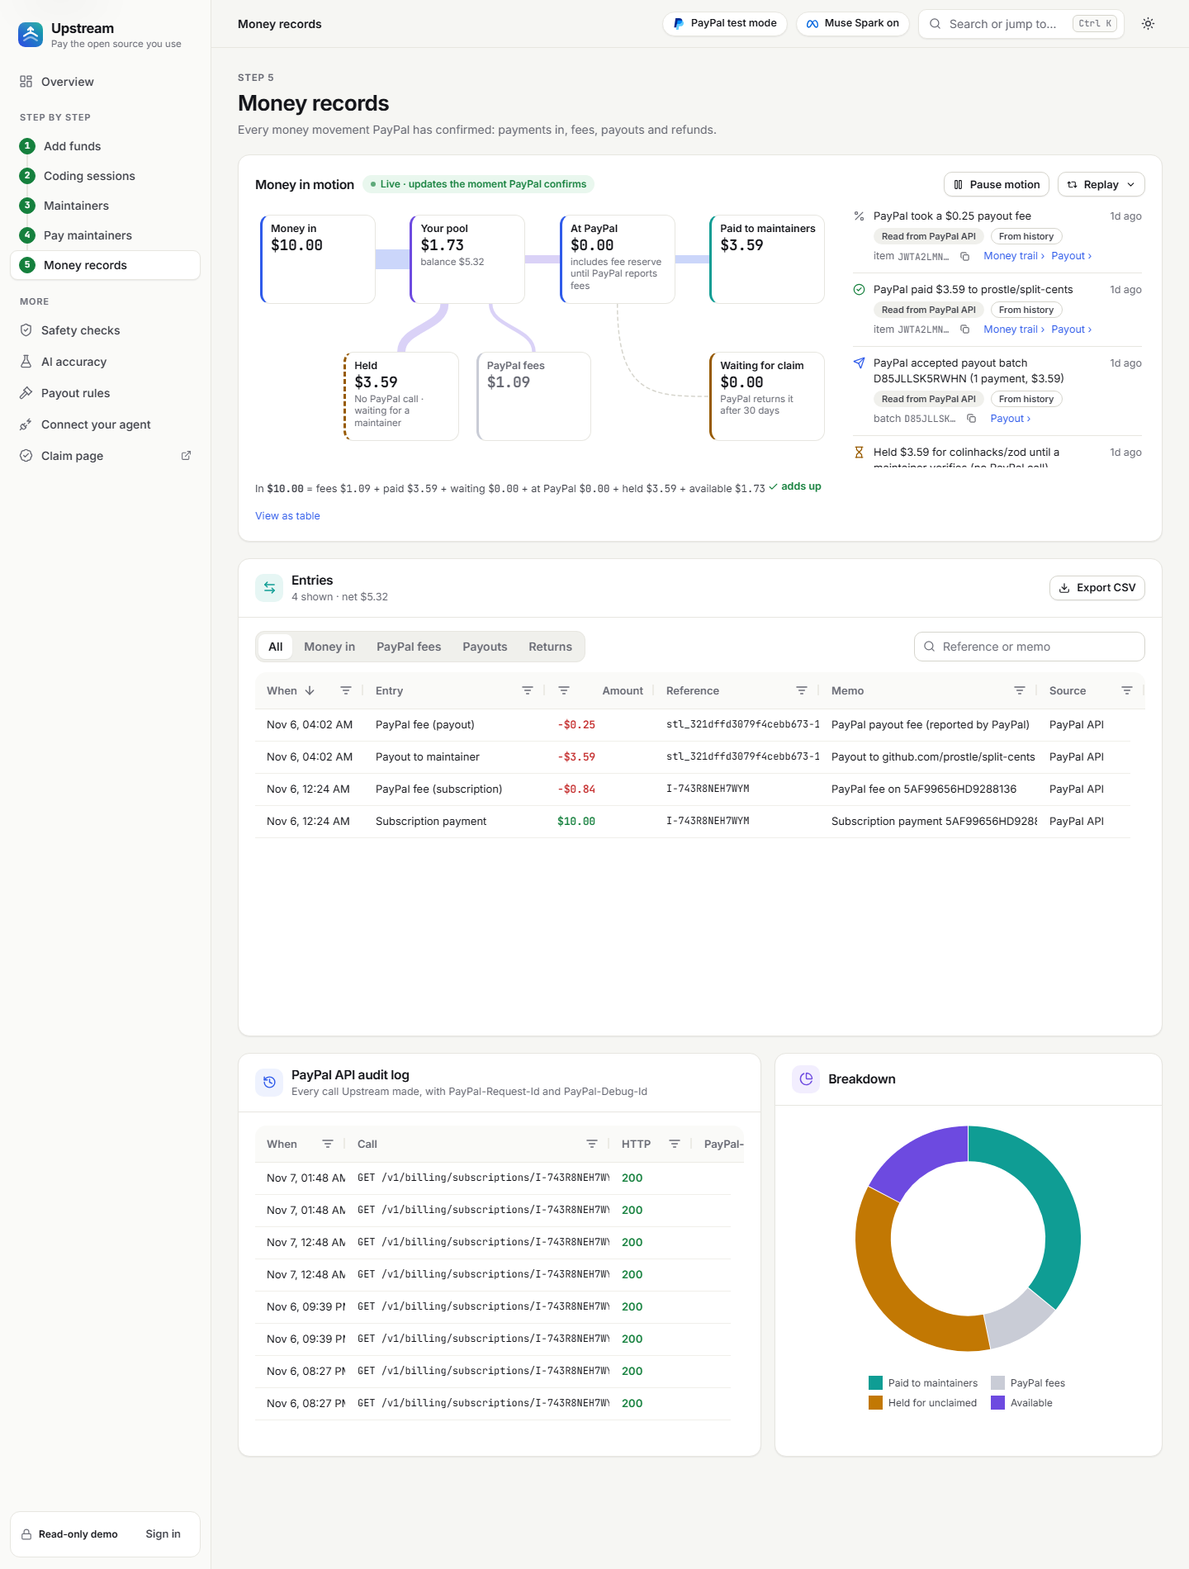
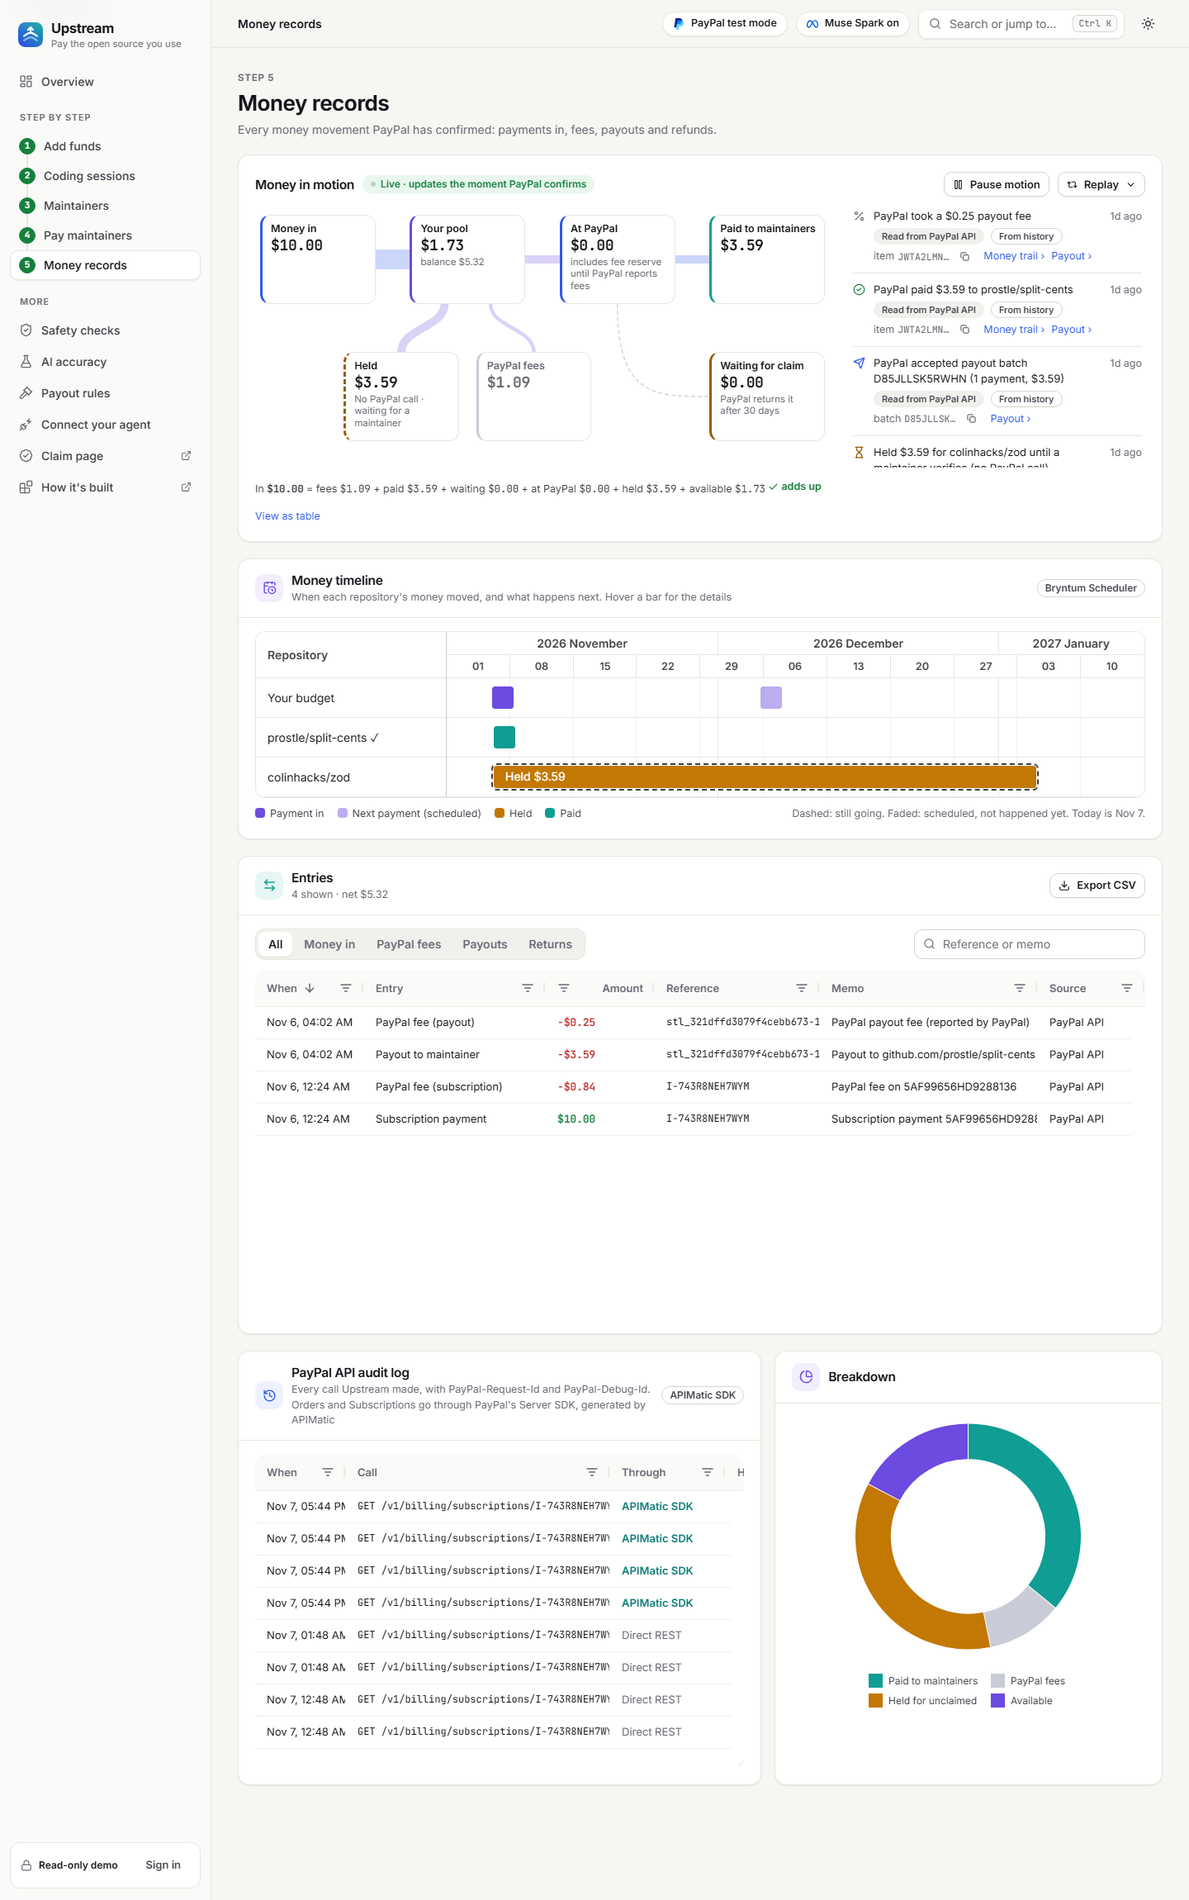
Document the Bryntum timeline, PayPal's Server SDK and the How it's built page
- "Partner tools: AG Grid, Bryntum, APIMatic and Render" replaces the AG Grid and Render
  section. It adds what Bryntum and the APIMatic-generated SDK do here, where to see them,
  how they're wired, diagrams and screenshots, and what the SDK doesn't cover.
- The PayPal tables, architecture, repo map and tools say which calls go through the SDK.
- New screenshots: the live How it's built page, the money timeline, and the API log's
  Through column. The Money records screenshot is refreshed.
- What's proven: the SDK sync against the real sandbox on the live app. 136 tests.

diff --git a/README.md b/README.md
@@ -38,7 +38,7 @@ The name is the idea. Money should flow back upstream, to where the work came fr
 - [How AI is used, and kept on a leash](#how-ai-is-used-and-kept-on-a-leash)
 - [The evidence layer](#the-evidence-layer)
 - [Architecture](#architecture)
-- [AG Grid and Render in Upstream](#ag-grid-and-render-in-upstream)
+- [Partner tools: AG Grid, Bryntum, APIMatic and Render](#partner-tools-ag-grid-bryntum-apimatic-and-render)
 - [Trust and safety](#trust-and-safety)
 - [What's proven so far](#whats-proven-so-far), including the benchmark
 - [Try it in two minutes](#try-it-in-two-minutes)
@@ -79,7 +79,7 @@ These are real screens, showing the sandbox run described [further down](#one-se
     </td>
     <td valign="top">
       <img src="docs/screenshots/money-records.png" alt="Money records with the ledger and PayPal API log"><br>
-      <b>Money records.</b> Every PayPal-confirmed movement, the ledger, and a log of every call made to PayPal's API.
+      <b>Money records.</b> Every PayPal-confirmed movement, the money timeline (Bryntum), the ledger, and every call made to PayPal's API, marked by whether it went through PayPal's Server SDK.
     </td>
   </tr>
 </table>
@@ -186,8 +186,8 @@ PayPal is the only place money moves. Upstream never holds card details or bank 
 
 | Job | PayPal product | What Upstream does with it |
 |---|---|---|
-| Fund a monthly budget | **Subscriptions** (catalog product, plan, subscription, transactions) | You approve the "agent tithe" on PayPal's own page. Upstream reads the subscription's transactions to book each payment and its fee. |
-| Add money once | **Orders v2** (create, capture, read) | A one-time top-up, captured on the server when you return from PayPal. Gross and fee come from the capture's `seller_receivable_breakdown`. |
+| Fund a monthly budget | **Subscriptions** (catalog product, plan, subscription, transactions), through **PayPal's Server SDK** | You approve the "agent tithe" on PayPal's own page. Upstream reads the subscription's transactions to book each payment and its fee. |
+| Add money once | **Orders v2** (create, capture, read), through **PayPal's Server SDK** | A one-time top-up, captured on the server when you return from PayPal. Gross and fee come from the capture's `seller_receivable_breakdown`. |
 | Pay maintainers | **Payouts** (create batch, show batch, show item, cancel unclaimed item) | One batch per approved plan, to verified maintainers only. |
 | Verify a payout email | **Log in with PayPal** (Identity) | Optional: maintainers connect their PayPal account, so the email is one PayPal has verified. Upstream doesn't keep their PayPal token. |
 | Keep records straight | **Webhooks** (create, update, `verify-webhook-signature`) | Every event is signature-checked, stored and processed once. |
@@ -196,6 +196,7 @@ PayPal is the only place money moves. Upstream never holds card details or bank 
 
 **The details that matter**
 
+- **Orders and Subscriptions through PayPal's own SDK.** These go through `@paypal/paypal-server-sdk`, PayPal's official TypeScript SDK, which APIMatic generates. Payouts, Webhooks and Log in with PayPal aren't in that SDK, so they're direct calls. [More below](#apimatic-paypals-server-sdk).
 - **No double payments.** Every batch uses `sender_batch_id = upstream-<settlement id>`. PayPal completes a payment only once per `sender_batch_id` and rejects reuse within 30 days, so a retry after a server error is safe. The request body is frozen when you approve, and the same id is sent as `PayPal-Request-Id`. **Replay batch** re-sends the identical body on purpose and shows PayPal's real rejection.
 - **Unclaimed money comes back.** PayPal returns unclaimed payouts after 30 days unless they're cancelled. Upstream cancels `UNCLAIMED` items after `POLICY_CANCEL_UNCLAIMED_AFTER_DAYS` (or when you ask), books the return, holds the money for that repo again, and flags the claim so the maintainer can fix their email.
 - **Fees are PayPal's real numbers.** Funding fees come from the subscription transaction's `fee_amount`, and payout fees from each item's `payout_item_fee`. A fee reserve keeps the budget safe until PayPal reports the actual fee.
@@ -210,10 +211,10 @@ PayPal is the only place money moves. Upstream never holds card details or bank 
 | API | Calls | Where |
 |---|---|---|
 | OAuth2 | `POST /v1/oauth2/token` (cached until expiry) | `server/src/paypal/client.ts` |
-| Catalog Products | `POST /v1/catalogs/products` | `server/src/paypal/subscriptions.ts` |
-| Subscriptions | `POST /v1/billing/plans`, `POST /v1/billing/subscriptions` (approve link), `GET /v1/billing/subscriptions/{id}`, `GET …/{id}/transactions` | `subscriptions.ts`, `funding.ts` |
+| Catalog Products | `POST /v1/catalogs/products` (direct: the SDK has no Catalog Products API) | `server/src/paypal/subscriptions.ts` |
+| Subscriptions (through PayPal's Server SDK) | `POST /v1/billing/plans`, `POST /v1/billing/subscriptions` (approve link), `GET /v1/billing/subscriptions/{id}`, `GET …/{id}/transactions` | `subscriptions.ts`, `sdk.ts`, `funding.ts` |
 | Payouts | `POST /v1/payments/payouts`, `GET /v1/payments/payouts/{id}` (all pages), `GET /v1/payments/payouts-item/{id}`, `POST /v1/payments/payouts-item/{id}/cancel` | `payouts.ts`, `settlement.ts` |
-| Orders v2 | `POST /v2/checkout/orders` (intent CAPTURE, `payment_source.paypal.experience_context`), `POST /v2/checkout/orders/{id}/capture` and `GET /v2/checkout/orders/{id}` with `Prefer: return=representation` | `paypal/orders.ts`, `topups.ts` |
+| Orders v2 (through PayPal's Server SDK) | `POST /v2/checkout/orders` (intent CAPTURE, `payment_source.paypal.experience_context`), `POST /v2/checkout/orders/{id}/capture` and `GET /v2/checkout/orders/{id}` with `Prefer: return=representation` | `paypal/orders.ts`, `sdk.ts`, `topups.ts` |
 | Identity (Log in with PayPal) | `/connect` authorize page, `POST /v1/oauth2/token` (`grant_type=authorization_code`), `GET /v1/identity/openidconnect/userinfo` (falls back to `/v1/identity/oauth2/userinfo`, the path the integration guide shows) | `paypal/identity.ts`, `claims.ts` |
 | Webhooks | `GET/POST/PATCH /v1/notifications/webhooks`, `POST /v1/notifications/verify-webhook-signature` (raw body spliced in byte for byte) | `webhooks.ts`, `events.ts` |
 | Invoicing (through the Agent Toolkit) | `create_invoice`, `send_invoice`, `record_payment_for_invoice`, `get_invoice`, which call `/v2/invoicing/invoices` | `paypal/statements.ts` |
@@ -291,12 +292,12 @@ flowchart TB
         DB[("SQLite<br/>one file on a persistent disk")]
         JOBS["Hourly reconciler<br/>and 24-hour cleanup"]
     end
-    WEB["Dashboard<br/>React, Vite, AG Grid"] <--> API
+    WEB["Dashboard<br/>React, Vite, AG Grid,<br/>Bryntum Scheduler"] <--> API
     HK -->|evidence, with a per-person token| API
     MCP -->|guarded payout tools| API
     API <--> DB
     JOBS <--> DB
-    API <-->|Subscriptions, Orders, Payouts,<br/>Identity, Invoicing| PP["PayPal sandbox"]
+    API <-->|"Orders and Subscriptions through<br/>PayPal's Server SDK, by APIMatic.<br/>Payouts, Identity, Invoicing"| PP["PayPal sandbox"]
     PP -->|signed webhooks| API
     API -->|structured output| MUSE["Meta Muse Spark"]
     API --> REG["deps.dev, ecosyste.ms,<br/>npm registry, GitHub"]
@@ -307,7 +308,8 @@ flowchart TB
 - **Node.js 24** with built-in SQLite (`node:sqlite`) and TypeScript type stripping, so there's no database server, no native build and no compile step for the server.
 - **Express 5** for the API, including Server-Sent Events for the live money stream.
 - **SQLite**, one file. Every person's records live in the same database and are kept apart by checks on every route.
-- **React 19, Vite, React Router, AG Grid and AG Charts** for the dashboard.
+- **React 19, Vite, React Router, AG Grid, AG Charts and Bryntum Scheduler** for the dashboard.
+- **PayPal's Server SDK** (`@paypal/paypal-server-sdk`, generated by APIMatic) for Orders and Subscriptions, and direct REST calls for the rest of PayPal's APIs.
 - **Hosted on Render**: one web service with a 1 GB persistent disk, defined in `render.yaml`.
 
 **Where things live in this repo**
@@ -317,22 +319,28 @@ flowchart TB
 | `hook/` | The Claude Code hook, its `hooks.json` and the installer |
 | `server/src/evidence/` | Turning tool calls into evidence, building candidates, importing session files |
 | `server/src/attribution/` | The Muse Spark call, the validator, the baseline, the dependency-list split and the accuracy report |
-| `server/src/paypal/` | Every PayPal call: OAuth, subscriptions, orders, payouts, identity, webhooks, statements |
-| `server/src/settlement.ts`, `ledger.ts`, `money/` | Planning, approving and sending payouts, the ledger, and the live money events |
+| `server/src/paypal/` | Every PayPal call: OAuth, subscriptions, orders, payouts, identity, webhooks, statements. `sdk.ts` connects PayPal's Server SDK to Upstream's transport |
+| `server/src/settlement.ts`, `ledger.ts`, `money/` | Planning, approving and sending payouts, the ledger, the live money events, and the money timeline's data |
 | `server/src/claims.ts`, `public.ts`, `check.ts` | Maintainer claims, public repo pages and badges, and the `/check` page |
 | `server/src/audit.ts`, `auth.ts`, `users.ts` | The live safety checks, Sign in with GitHub, and private spaces |
 | `server/src/resolve/` | Package to repository, through deps.dev, ecosyste.ms and the npm registry |
-| `server/test/` | 128 tests, including one person attacking another over HTTP |
-| `web/src/` | The dashboard, the home page and the in-browser session converter |
+| `server/test/` | 136 tests, including one person attacking another over HTTP |
+| `web/src/` | The dashboard, the home page, the "How it's built" page, the money timeline and the in-browser session converter |
 | `mcp/src/` | The MCP server that gives agents guarded payout tools |
 | `.claude-plugin/`, `skills/` | The Claude Code plugin: hooks, MCP server and four skills (`/credits`, `/fund`, `/receipt`, `/statement`). The `SKILL.md` files are part of the plugin, which is why they're the only other Markdown files here. |
 | `scripts/` | The dev runner, the icon renderer, the benchmark and the `/check` sample builder |
 
 ---
 
-## AG Grid and Render in Upstream
+## Partner tools: AG Grid, Bryntum, APIMatic and Render
 
-Two of the hackathon's partner tools are part of how Upstream is built: **AG Grid** for its tables and charts, and **Render** for hosting. This is what each one does here.
+Four of the hackathon's partner tools are part of how Upstream is built: **AG Grid** for its tables and charts, **Bryntum** for the money timeline, **APIMatic** through PayPal's Server SDK, and **Render** for hosting. This is what each one does here.
+
+The app shows the same thing on its own [How it's built](https://upstream-vvua.onrender.com/how-its-built) page, which anyone can open. It lists each tool, what it does and where to see it, with live numbers from the server: how many PayPal calls went through the SDK, the SDK's version, and the commit Render is running.
+
+<img src="docs/screenshots/how-its-built.png" alt="The How it's built page on the live app">
+
+The dashboard also labels each one where it's used: *Bryntum Scheduler* on the money timeline, and *APIMatic SDK* on the funding cards and the PayPal API log.
 
 ### AG Grid: the tables and charts
 
@@ -380,6 +388,53 @@ flowchart LR
 </table>
 
 The payout and money-records screens [above](#a-look-at-the-app) show the other grids, and the reviewed session shows the comparison chart.
+
+### Bryntum: the money timeline
+
+Upstream uses **Bryntum Scheduler, Community edition** (`@bryntum/scheduler-community` and `@bryntum/scheduler-react-community`, version 8.0.0). It's MIT licensed and installs from public npm with no key, so anyone who clones this repo can run it. It draws the **money timeline** on the Money records page.
+
+- **What it shows.** A row for your budget and one for each repository your agent relied on. Every bar is a stored record: a payment PayPal confirmed, a payout, or a share held for a maintainer who hasn't claimed it yet. It also shows what's scheduled next: your next subscription payment (PayPal's `next_billing_time`), the day a held share goes back to your pool (`POLICY_RESERVE_DAYS`), and the day an unclaimed payout will be cancelled (`POLICY_CANCEL_UNCLAIMED_AFTER_DAYS`). Hover a bar for the exact dates and PayPal's ids.
+- **Where the data comes from.** `GET /api/money/timeline` ([`server/src/money/timeline.ts`](server/src/money/timeline.ts)) builds the rows and bars from the signed-in person's allocations, payout items, ledger and subscription, and nobody else's. Nothing on it is estimated except the dates those two rules set.
+- **How it's wired.** [`web/src/money/Timeline.tsx`](web/src/money/Timeline.tsx) renders `BryntumScheduler` read-only, with dragging, editing and menus turned off. The colours match the money diagram: a dashed outline means still going, and a faded bar means scheduled. It loads Bryntum's light or dark theme to follow the app's theme switch, and the module is split out, so only the Money records page downloads Bryntum.
+
+<img src="docs/screenshots/money-timeline.png" alt="The money timeline, drawn with Bryntum Scheduler">
+
+*Real sandbox data: the $10.00 subscription payment and the next one PayPal has scheduled, the $3.59 paid to `split-cents`, and `zod`'s $3.59 held until its maintainer claims it.*
+
+```mermaid
+flowchart LR
+    DB[("SQLite: allocations, payout items,<br/>ledger, subscriptions")] --> API["GET /api/money/timeline<br/>only this person's records"]
+    API --> T["Timeline.tsx"]
+    T --> B["BryntumScheduler<br/>read-only, light or dark"]
+```
+
+### APIMatic: PayPal's Server SDK
+
+PayPal's official TypeScript SDK, [`@paypal/paypal-server-sdk`](https://github.com/paypal/PayPal-TypeScript-Server-SDK), is generated by APIMatic from PayPal's API definitions. Its source files say so ("automatically generated by APIMATIC"), and it's built on APIMatic's runtime packages. Upstream uses version 2.5.0 for every PayPal call the SDK covers:
+
+| PayPal API | SDK methods Upstream uses | Upstream code |
+|---|---|---|
+| Orders v2 | `createOrder`, `captureOrder`, `getOrder`, for one-time top-ups | [`server/src/paypal/orders.ts`](server/src/paypal/orders.ts) |
+| Subscriptions | `createBillingPlan`, `createSubscription`, `getSubscription`, `listSubscriptionTransactions`, for the monthly budget | [`server/src/paypal/subscriptions.ts`](server/src/paypal/subscriptions.ts) |
+
+The SDK doesn't cover Payouts, Webhooks, Log in with PayPal or Catalog Products, so those are still direct REST calls. Statements go through PayPal's Agent Toolkit, which is itself built on an earlier version of the same SDK.
+
+- **How it's wired.** [`server/src/paypal/sdk.ts`](server/src/paypal/sdk.ts) creates the SDK client. The SDK builds each request from its typed models, sets `PayPal-Request-Id` and `Prefer`, and turns PayPal's error replies into typed errors, which Upstream maps to the same `PayPalError` a direct call throws. The SDK's HTTP layer is axios, and Upstream gives it an axios adapter, so every SDK request goes over Upstream's own transport. That means the SDK uses Upstream's cached access token, `PAYPAL_API_BASE` still applies, the tests can stand in for PayPal, and every call is logged.
+- **Money is still booked from PayPal's own JSON.** The SDK hands back PayPal's raw reply alongside its typed model. That reply has the same shape webhooks deliver, so one code path books both.
+- **Where you see it.** The PayPal API audit log on Money records has a *Through* column, showing **APIMatic SDK** or **Direct REST** for every call. The two funding cards on Add funds are labelled too.
+- **Checked against the real sandbox.** On the live app, syncing the sandbox subscription through the SDK returned it as active, with the same $10.00 payment and $0.84 fee as before, and booked nothing twice. PayPal's real replies passed the SDK's own schema validation. [`server/test/paypal-sdk.test.ts`](server/test/paypal-sdk.test.ts) checks the exact JSON, headers and token the SDK sends.
+
+<img src="docs/screenshots/api-log.png" alt="The PayPal API audit log, showing which calls went through the APIMatic SDK" width="520">
+
+```mermaid
+flowchart LR
+    C["orders.ts and subscriptions.ts"] -->|typed request models| SDK["PayPal Server SDK<br/>generated by APIMatic"]
+    SDK -->|axios adapter| T["Upstream's transport<br/>shared token, call log"]
+    T --> PP["PayPal API"]
+    PP -->|JSON reply| T
+    T --> SDK
+    SDK -->|"PayPal's own JSON"| C
+```
 
 ### Render: hosting
 
@@ -433,6 +488,7 @@ You shouldn't have to take any of this on faith, so the app checks itself in pub
 | Real PayPal funding | Sandbox subscription `I-743R8NEH7WYM`: $10.00 paid, PayPal's $0.84 fee recorded. |
 | Money only moves on screen when PayPal confirms it | A second real sandbox payout (batch `LK2R3WYGYTZM2`, $1.70) was watched live. Each step moved when PayPal's reply or its API confirmed it, every event appeared once, and the totals added up to the cent throughout. |
 | It runs as a hosted service | The [live app](https://upstream-vvua.onrender.com) runs on Render with the real sandbox history above. PayPal's webhook points at it, and its live stream delivers events without buffering. |
+| PayPal's own SDK works with real data | On the live app, syncing the sandbox subscription through PayPal's Server SDK (generated by APIMatic) returned the same $10.00 payment and $0.84 fee and booked nothing twice. PayPal's real replies passed the SDK's own schema validation. A one-time top-up through the SDK hasn't been approved on PayPal's page yet. |
 | The AI finds what dependency lists miss | Live `muse-spark-1.3` on 12 scripted scenarios, 3 runs each: 12 of 12 correct on every run, against 7 of 12 for counting imports. See [the benchmark](#the-benchmark). |
 | A README can't talk the AI into paying it | A package whose README demanded all the money got nothing, and the AI flagged the attempt in 3 of 3 runs. |
 | Code overrules the AI | 9 of 9 deliberately malicious AI outputs were blocked. |
@@ -521,10 +577,11 @@ Nothing falls back to mock data. A missing credential turns that feature off, an
 **Tests**
 
 ```bash
-npm test                     # 128 tests: parsers, evidence, the validator, money math, the hook and its spool,
+npm test                     # 136 tests: parsers, evidence, the validator, money math, the hook and its spool,
                              # top-ups, claims, an end-to-end settlement, the safety checks, sign-in,
                              # one person attacking another over HTTP, the session converter, /check and its limits,
-                             # fee thresholds, money events and their stream, invites and statements
+                             # fee thresholds, money events and their stream, invites and statements,
+                             # the requests PayPal's Server SDK sends, and the money timeline
 npm run typecheck
 npm run doctor               # live, read-only checks against PayPal, Muse Spark, GitHub, deps.dev and ecosyste.ms
 node scripts/benchmark.mjs   # the benchmark above, against the live model (about $0.30)
@@ -540,6 +597,7 @@ The settlement test drives plan, approve, send twice (exactly one PayPal call), 
 | Tool | How it's used |
 |---|---|
 | **PayPal REST APIs** (sandbox) | Subscriptions, Orders v2, Payouts, Webhooks and Identity, as described above. |
+| **PayPal Server SDK** (`@paypal/paypal-server-sdk`, generated by **APIMatic**) | Sends every Orders v2 and Subscriptions call, over Upstream's own transport. |
 | **PayPal Agent Toolkit** (`@paypal/agent-toolkit`) | Issues monthly statements as PayPal invoices. |
 | **Muse Spark** (`muse-spark-1.3` on Meta's Model API, through its Anthropic-format Messages endpoint with the Anthropic TypeScript SDK) | Evidence-based value attribution with structured output. |
 | **Claude Code hooks** | The evidence collector (`SessionStart`, `PostToolUse`, `Stop`, `SessionEnd`). |
@@ -547,6 +605,7 @@ The settlement test drives plan, approve, send twice (exactly one PayPal call), 
 | **Model Context Protocol** (`@modelcontextprotocol/sdk`) | Upstream's MCP server, which gives agents guarded payout tools. |
 | **deps.dev API v3**, **ecosyste.ms Packages API**, **npm registry**, **GitHub REST API** | Package to repository, funding links, `FUNDING.yml`, repository permissions, and Sign in with GitHub. |
 | **AG Grid Community** and **AG Charts Community** | The sessions, packages, payouts, allocations, ledger and API-call grids, and the review and accuracy charts. |
+| **Bryntum Scheduler Community** (`@bryntum/scheduler-community`, MIT) | The money timeline on the Money records page. |
 | **fetch-event-source** (`@microsoft/fetch-event-source`) | The dashboard's live money stream, with the sign-in header a browser's own EventSource can't send. |
 | **Render** | Hosts the live app, from `render.yaml`: one web service with a persistent disk for SQLite. |
 | **resvg** (`@resvg/resvg-js`) | Renders every app icon from the one hand-drawn SVG mark (`scripts/icons.mjs`). |
